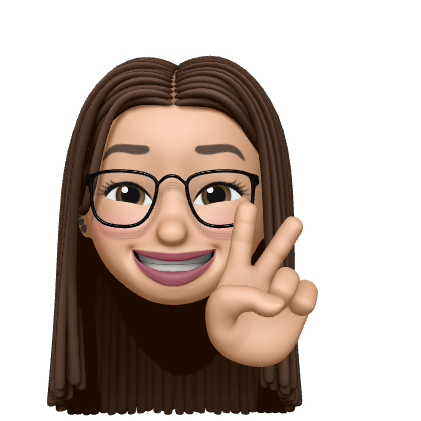
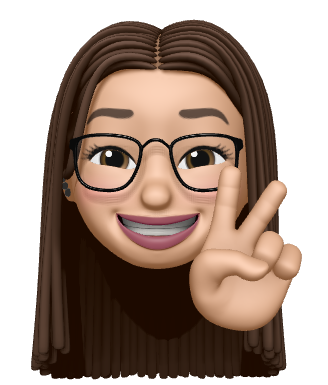
added animoji and edied scss.

diff --git a/scss/styles.scss b/scss/styles.scss
@@ -1,11 +1,11 @@
-@font-face { 
-  font-family: Arvo; 
-  font-weight: bold; 
+@font-face {
+  font-family: Arvo;
+  font-weight: bold;
   src: url('assets/fonts/Arvo/Arvo-Bold.ttf');
 }
 
-@font-face { 
-  font-family: sometype-mono; 
+@font-face {
+  font-family: sometype-mono;
   src: url('assets/fonts/sometype-mono/SometypeMono-Regular.ttf');
 }
 
@@ -18,47 +18,44 @@ body {
   background-size: 100%;
   background-repeat: no-repeat;
   color: white;
-}
-
-.welcome {
-  display: flex;
-  justify-content: center;
-  width: auto;
-  height: 6rem;
-  padding-bottom: 3rem;
-}
-
-.typewriter {
-	text-align: center;
   font-family: sometype-mono;
-  
-  .typewriter-text {
-    display: inline-block;
-  	overflow: hidden;
- 	  animation: typing 3s steps(30, end), blink .75s step-end infinite;
-    white-space: nowrap;
-    font-size: 2rem;
-    border-right: 4px solid #E66EBA;
-    box-sizing: border-box;
-  }
 
-@keyframes blink {
-    from, to { 
-        border-color: transparent 
+  .container {
+    margin-top: 2rem;
+
+    .welcome {
+      display: flex;
+      justify-content: center;
+      width: auto;
+      height: 6rem;
+      padding-bottom: 3rem;
     }
-    50% { 
-        border-color: #E66EBA; 
+
+    .potrait {
+      display: flex;
+      justify-content: center;
+
+      img {
+        background-color: #1F1F1F;
+        box-shadow: 15px 15px 5px rgba(0, 0, 0, 0.15);
+        width: 6rem;
+        height: auto;
+        border-radius: 0 30px 0 30px;
+        padding: 2rem;
+      }
     }
-}
-}
 
-.potrait {
-  display: flex;
-  justify-content: center;
+    .about-me {
+      margin-top: 3rem;
+      text-align: center;
 
-  img {
-    width: 6rem;
-    height: auto;
+      .headline-pink {
+        font-family: Arvo;
+        font-weight: 600;
+        color: #E66EBA;
+        font-size: 2.5rem;
+      }
+    }
   }
 }
 

diff --git a/css/styles.css b/css/styles.css
@@ -15,39 +15,34 @@ body {
   background-image: url(../assets/pictures/background-line.svg);
   background-size: 100%;
   background-repeat: no-repeat;
-  color: white; }
-
-.welcome {
-  display: flex;
-  justify-content: center;
-  width: auto;
-  height: 6rem;
-  padding-bottom: 3rem; }
-
-.typewriter {
-  text-align: center;
+  color: white;
   font-family: sometype-mono; }
-  .typewriter .typewriter-text {
-    display: inline-block;
-    overflow: hidden;
-    animation: typing 3s steps(30, end), blink 0.75s step-end infinite;
-    white-space: nowrap;
-    font-size: 2rem;
-    border-right: 4px solid #E66EBA;
-    box-sizing: border-box; }
-
-@keyframes blink {
-  from, to {
-    border-color: transparent; }
-  50% {
-    border-color: #E66EBA; } }
-
-.potrait {
-  display: flex;
-  justify-content: center; }
-  .potrait img {
-    width: 6rem;
-    height: auto; }
+  body .container {
+    margin-top: 2rem; }
+    body .container .welcome {
+      display: flex;
+      justify-content: center;
+      width: auto;
+      height: 6rem;
+      padding-bottom: 3rem; }
+    body .container .potrait {
+      display: flex;
+      justify-content: center; }
+      body .container .potrait img {
+        background-color: #1F1F1F;
+        box-shadow: 15px 15px 5px rgba(0, 0, 0, 0.15);
+        width: 6rem;
+        height: auto;
+        border-radius: 0 30px 0 30px;
+        padding: 2rem; }
+    body .container .about-me {
+      margin-top: 3rem;
+      text-align: center; }
+      body .container .about-me .headline-pink {
+        font-family: Arvo;
+        font-weight: 600;
+        color: #E66EBA;
+        font-size: 2.5rem; }
 
 footer {
   position: absolute;

diff --git a/index.html b/index.html
@@ -7,28 +7,29 @@
   <title>anna maier</title>
   <link href="css/styles.css" rel="stylesheet">
   <link rel="icon" type="image/png" sizes="32x32" href="assets/icon/favicon.svg">
-  <script src="index.js"></script>
 </head>
 
 <body>
-  <div class="welcome">
-    <img src="./assets/pictures/welcome.svg" alt="Welcome image" title="Welcome image">
-  </div>
-  <div class="typewriter">
-    <div class="typewriter-text">My name is Anna</div>
-  </div>
-  <div class="potrait">
-    <img src="./assets/pictures/animoji.png">
+  <div class="container">
+    <div class="welcome">
+      <img src="./assets/pictures/welcome.svg" alt="Welcome image" title="Welcome image">
+    </div>
+    <div class="potrait">
+      <img src="./assets/pictures/animoji.png">
+    </div>
+    <div class="about-me">
+      <div class="headline-pink">About me</div>
+    </div>
   </div>
   <footer>
     <div class="left-column">
-      <a href="">
+      <a href="" target="_blank">
         <img src="./assets/icon/ic_facebook.svg" class="social-media-icon"></a>
-      <a href="">
+      <a href="" target="_blank">
         <img src="./assets/icon/ic_instagram.svg" class="social-media-icon"></a>
-      <a href="">
+      <a href="" target="_blank">
         <img src="./assets/icon/ic_linkedin.svg" class="social-media-icon"></a>
-      <a href="">
+      <a href="" target="_blank">
         <img src="./assets/icon/ic_twitter.svg" class="social-media-icon"></a>
     </div>
     <div class="right-column">
